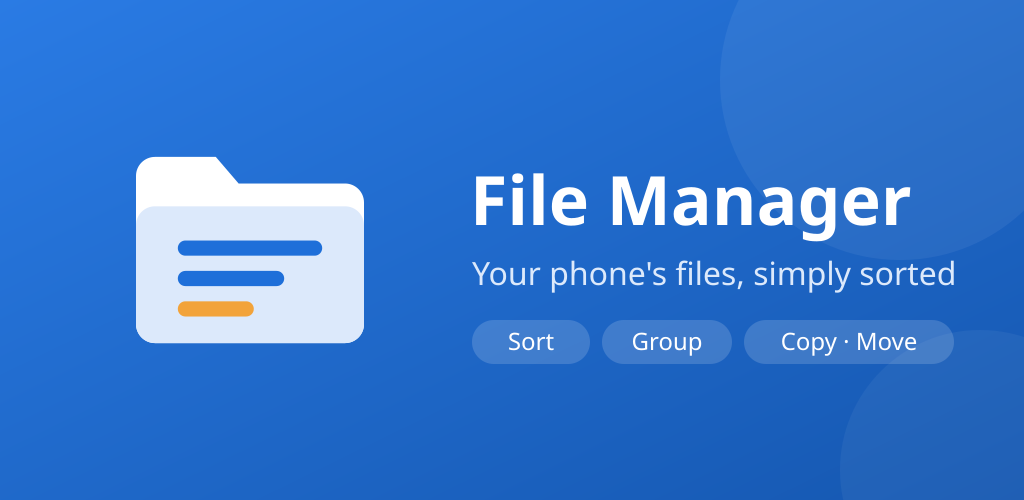
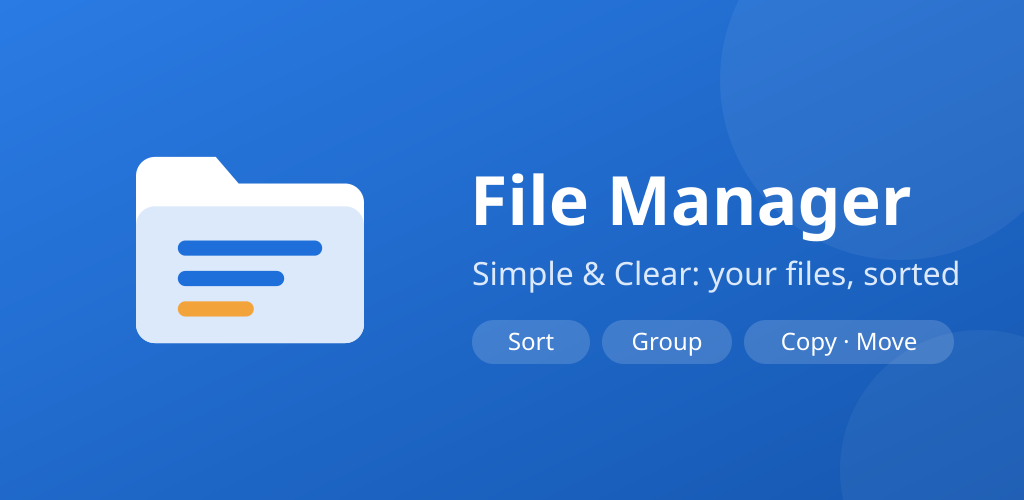
Store name: File Manager: Simple & Clear

Changed region(s): [[0.4688, 0.51, 0.9375, 0.6]]

diff --git a/store/listing.md b/store/listing.md
@@ -1,13 +1,9 @@
 # Play Store listing — File Manager (com.homilabs.filemanager)
 
-Draft 9 Nov 2026. Homi picks the name.
+Draft 9 Nov 2026. Name chosen by Homi: **File Manager: Simple & Clear**.
 
 ## App name (max 30 characters)
-Options (recommended first):
-1. `File Manager: Simple & Clear` (28)
-2. `HomiLabs File Manager` (21)
-3. `Easy File Manager - Sort Files` (30)
-4. `File Manager` (12) — very generic; hard to find in search
+`File Manager: Simple & Clear` (28). The launcher label on the phone stays "File Manager".
 
 ## Short description (max 80)
 `Browse, sort and group your files. Copy, move and share them in a few taps.` (75)
